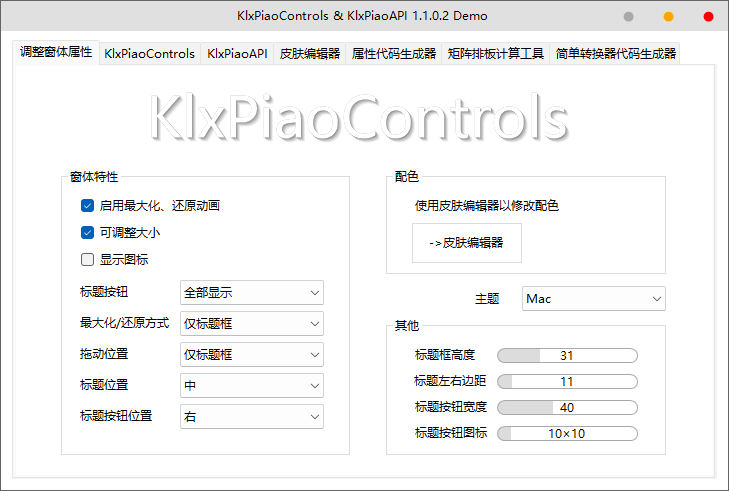
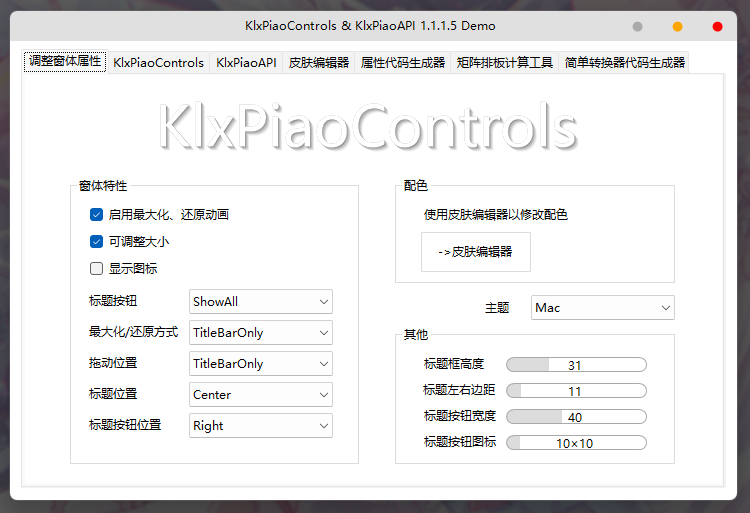
1.1.1.5 版本更新，详情请查看更新日志。

diff --git a/KlxPiaoControls/KlxPiaoForm.cs b/KlxPiaoControls/KlxPiaoForm.cs
@@ -1,6 +1,7 @@
 using KlxPiaoAPI;
 using System.ComponentModel;
 using System.Drawing.Drawing2D;
+using System.Runtime.InteropServices;
 
 namespace KlxPiaoControls
 {
@@ -10,6 +11,94 @@ namespace KlxPiaoControls
     /// <remarks><see cref="KlxPiaoForm"/> 继承自 <see cref="Form"/>，涵盖了原版 <see cref="Form"/> 的功能。</remarks>
     public partial class KlxPiaoForm : Form
     {
+        #region RoundedAndShadow
+        [LibraryImport("Gdi32.dll", EntryPoint = "CreateRoundRectRgn")]
+        private static partial IntPtr CreateRoundRectRgn
+        (
+            int nLeftRect,      // x-coordinate of upper-left corner
+            int nTopRect,       // y-coordinate of upper-left corner
+            int nRightRect,     // x-coordinate of lower-right corner
+            int nBottomRect,    // y-coordinate of lower-right corner
+            int nWidthEllipse,  // height of ellipse
+            int nHeightEllipse  // width of ellipse
+        );
+
+        [LibraryImport("dwmapi.dll")]
+        public static partial int DwmExtendFrameIntoClientArea(IntPtr hWnd, ref MARGINS pMarInset);
+
+        [LibraryImport("dwmapi.dll")]
+        public static partial int DwmSetWindowAttribute(IntPtr hwnd, int attr, ref int attrValue, int attrSize);
+
+        [LibraryImport("dwmapi.dll")]
+        public static partial int DwmIsCompositionEnabled(ref int pfEnabled);
+
+        private bool m_aeroEnabled;                     // variables for box shadow
+        private const int CS_DROPSHADOW = 0x00020000;
+        private const int WM_NCPAINT = 0x0085;
+
+        public struct MARGINS                           // struct for box shadow
+        {
+            public int leftWidth;
+            public int rightWidth;
+            public int topHeight;
+            public int bottomHeight;
+        }
+
+        protected override CreateParams CreateParams
+        {
+            get
+            {
+                m_aeroEnabled = CheckAeroEnabled();
+
+                CreateParams cp = base.CreateParams;
+                if (!m_aeroEnabled)
+                    cp.ClassStyle |= CS_DROPSHADOW;
+
+                return cp;
+            }
+        }
+
+        private static bool CheckAeroEnabled()
+        {
+            if (Environment.OSVersion.Version.Major >= 6)
+            {
+                int enabled = 0;
+                DwmIsCompositionEnabled(ref enabled);
+                return (enabled == 1);
+            }
+            return false;
+        }
+
+        protected override void WndProc(ref Message m)
+        {
+            if (EnableShadow)
+            {
+                switch (m.Msg)
+                {
+                    case WM_NCPAINT:                        // box shadow
+                        if (m_aeroEnabled)
+                        {
+                            var v = 2;
+                            DwmSetWindowAttribute(Handle, 2, ref v, 4);
+                            MARGINS margins = new()
+                            {
+                                bottomHeight = 1,
+                                leftWidth = 1,
+                                rightWidth = 1,
+                                topHeight = 1
+                            };
+                            DwmExtendFrameIntoClientArea(Handle, ref margins);
+
+                        }
+                        break;
+                    default:
+                        break;
+                }
+            }
+            base.WndProc(ref m);
+        }
+        #endregion
+
         #region Enums
         /// <summary>
         /// 表示横向两端的枚举。
@@ -148,6 +237,7 @@ namespace KlxPiaoControls
         private bool _resizable;
         private CloseButtonAction _closeButtonFunction;
         private StartupSequence _startupOrder;
+        private bool _enableShadow;
 
         private Color _inactiveTitleBoxBackColor;
         private Color _inactiveTitleBoxForeColor;
@@ -326,6 +416,7 @@ namespace KlxPiaoControls
             _resizable = true;
             _closeButtonFunction = CloseButtonAction.CloseWindow;
             _startupOrder = StartupSequence.WaitOnLoadThenAnimate;
+            _enableShadow = true;
 
             _inactiveTitleBoxBackColor = Color.Transparent;
             _inactiveTitleBoxForeColor = SystemColors.WindowFrame;
@@ -606,6 +697,17 @@ namespace KlxPiaoControls
             get { return _startupOrder; }
             set { _startupOrder = value; Invalidate(); }
         }
+        /// <summary>
+        /// 获取或设置是否启用 Windows 窗体的圆角和阴影(会使窗体边框功能失效)。
+        /// </summary>
+        [Category("KlxPiaoForm特性")]
+        [Description("启用 Windows 窗体的圆角和阴影(会使窗体边框颜色属性失效)")]
+        [DefaultValue(true)]
+        public bool EnableShadow
+        {
+            get { return _enableShadow; }
+            set { _enableShadow = value; Invalidate(); }
+        }
         #endregion
 
         #region KlxPiaoForm焦点
@@ -655,6 +757,9 @@ namespace KlxPiaoControls
         protected override void OnPaint(PaintEventArgs pe)
         {
             Graphics g = pe.Graphics;
+            g.SmoothingMode = SmoothingMode.AntiAlias;
+            g.PixelOffsetMode = PixelOffsetMode.HighQuality;
+
             Rectangle thisRect = new(0, 0, Width, Height);
 
             g.Clear(BackColor);
@@ -666,7 +771,7 @@ namespace KlxPiaoControls
             }
 
             //绘制边框
-            if (!(AutoHideWindowBorder && WindowState == FormWindowState.Maximized))
+            if (!(AutoHideWindowBorder && WindowState == FormWindowState.Maximized) && !EnableShadow)
             {
                 using Pen borderPen = new(BorderColor, 1);
                 g.DrawRectangle(borderPen, new Rectangle(thisRect.X, thisRect.Y, thisRect.Width - 1, thisRect.Height - 1));
@@ -893,6 +998,7 @@ namespace KlxPiaoControls
                 }
             }
         }
+
 
         #region 标题按钮事件
         private void CloseButton_Click(object? sender, EventArgs e)

diff --git a/KlxPiaoDemo/MainForm.cs b/KlxPiaoDemo/MainForm.cs
@@ -182,7 +182,8 @@ namespace KlxPiaoDemo
         #region 属性代码生成器
         private void 生成代码(object? sender, EventArgs e)
         {
-            string 名称 = textBox1.Text;
+            string 名称 = textBox1.Text.ProcessFirstChar();
+            string 公有名称 = textBox1.Text;
             string 类型 = textBox2.Text;
             string 默认值 = textBox6.Text;
             string 类别 = textBox20.Text;
@@ -192,13 +193,13 @@ namespace KlxPiaoDemo
             {
                 textBox3.Text = $"private {类型} _{名称};";
                 textBox4.Text = $"_{名称} = {默认值};";
-                textBox5.Text = $"        /// <summary>\r\n        /// {描述}。\r\n        /// </summary>\r\n        [Category(\"{类别}\")]\r\n        [Description(\"{描述}\")]\r\n        [DefaultValue(typeof({类型}), \"{默认值}\")]\r\n        public {类型} {名称}\r\n        {{\r\n            get {{ return _{名称}; }}\r\n            set {{ _{名称} = value; Invalidate(); }}\r\n        }}";
+                textBox5.Text = $"        /// <summary>\r\n        /// {描述}。\r\n        /// </summary>\r\n        [Category(\"{类别}\")]\r\n        [Description(\"{描述}\")]\r\n        [DefaultValue(typeof({类型}), \"{默认值}\")]\r\n        public {类型} {公有名称}\r\n        {{\r\n            get {{ return _{名称}; }}\r\n            set {{ _{名称} = value; Invalidate(); }}\r\n        }}";
             }
             else if (slideSwitch6.SelectIndex == 1)
             {
                 textBox3.Text = $"Dim _{名称} As {类型}";
                 textBox4.Text = $"_{名称} = {默认值}";
-                textBox5.Text = $"        ''' <summary>\r\n        ''' {描述}。\r\n        ''' </summary>\r\n        <Category(\"{类别}\")>\r\n        <Description(\"{描述}\")>\r\n        <DefaultValue(GetType({类型}), \"{默认值}\")>\r\n        Public Property {名称} As {类型}\r\n            Get\r\n                Return _{名称}\r\n            End Get\r\n            Set(value As {类型})\r\n                _{名称} = value\r\n                Invalidate()\r\n            End Set\r\n        End Property";
+                textBox5.Text = $"        ''' <summary>\r\n        ''' {描述}。\r\n        ''' </summary>\r\n        <Category(\"{类别}\")>\r\n        <Description(\"{描述}\")>\r\n        <DefaultValue(GetType({类型}), \"{默认值}\")>\r\n        Public Property {公有名称} As {类型}\r\n            Get\r\n                Return _{名称}\r\n            End Get\r\n            Set(value As {类型})\r\n                _{名称} = value\r\n                Invalidate()\r\n            End Set\r\n        End Property";
             }
         }
         private void SlideSwitch6_SelectIndexChanged(object sender, EventArgs e)

diff --git a/README.md b/README.md
@@ -8,32 +8,31 @@
 
 ## 预览
 
-![home](screenshot/home.png)
+![home](Screenshot/home.png)
 
 
-![label](screenshot/label.png)
+![label](Screenshot/label.png)
 
 
-![theme](screenshot/theme.png)
+![theme](Screenshot/theme.png)
 
 
-![picturebox](screenshot/picturebox.png)
+![picturebox](Screenshot/picturebox.png)
 
 
-![panel](screenshot/panel.png)
+![panel](Screenshot/panel.png)
 
 
-![slideswitch](screenshot/slideswitch.png)
+![slideswitch](Screenshot/slideswitch.png)
 
 
-![button](screenshot/button.png)
+![button](Screenshot/button.png)
 
 
-![trackbar](screenshot/trackbar.png)
+![trackbar](Screenshot/trackbar.png)
 
 
-![labeldemo](screenshot/labeldemo.png)
+![labeldemo](Screenshot/labeldemo.png)
 
 
-![api_control](screenshot/api_control.png)
-
+![api_control](Screenshot/api_control.png)

diff --git a/CHANGELOG.md b/CHANGELOG.md
@@ -1,5 +1,12 @@
 # 更新日志
 
+## 版本 1.1.1.5
+### KlxPiaoControls
+#### 新增属性：
+- KlxPiaoForm.EnableShadow
+
+---
+
 ## 版本 1.1.1.4
 ### KlxPiaoAPI
 #### 新增方法：
